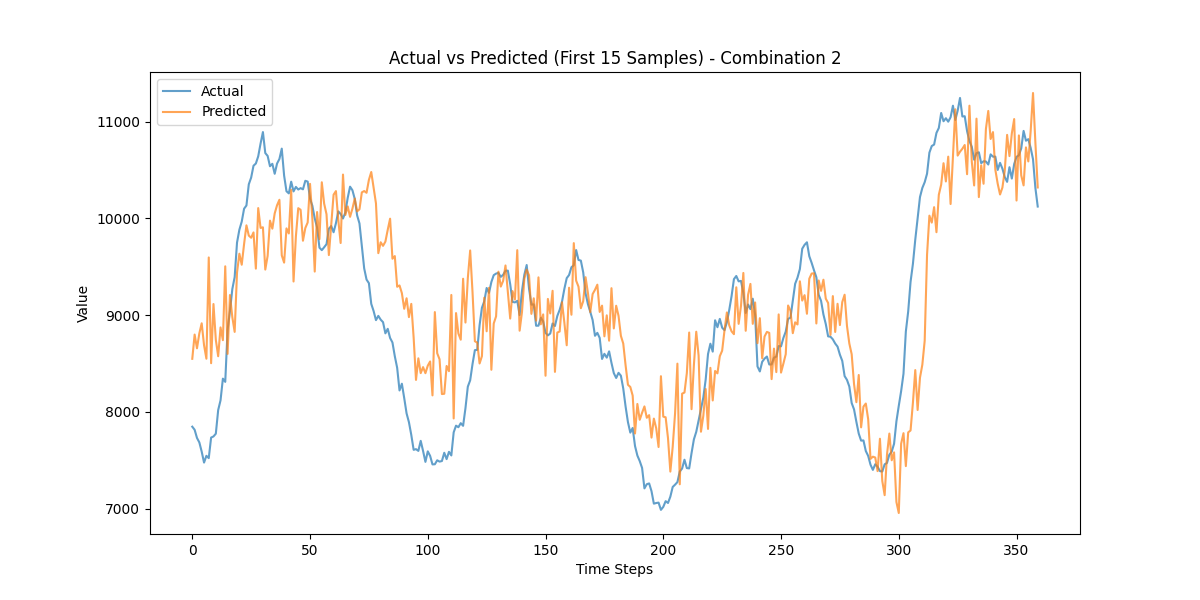
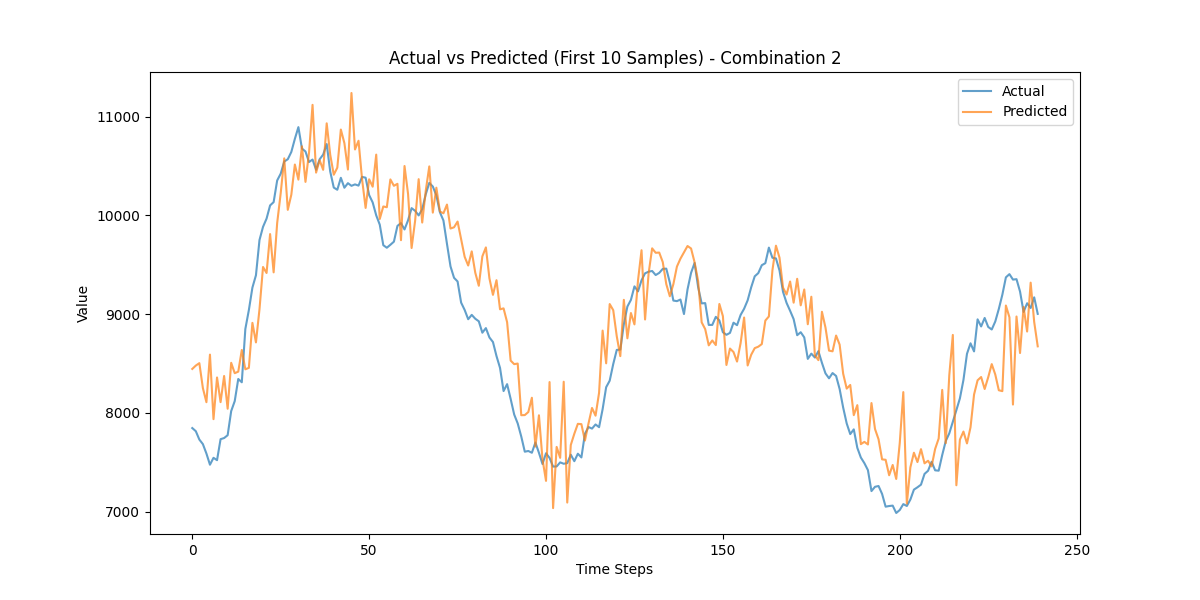
configs and gs code

diff --git a/fgnn/model.py b/fgnn/model.py
@@ -54,7 +54,7 @@ class FGN(nn.Module):
                     self.scale * torch.randn(2, self.frequency_size * self.hidden_size_factor, self.frequency_size)))
                 self.biases.append(nn.Parameter(
                     self.scale * torch.randn(2, self.frequency_size)))
-            else: 
+            else:
                 self.weights.append(nn.Parameter(
                     self.scale * torch.randn(2, self.frequency_size * self.hidden_size_factor,
                                              self.frequency_size * self.hidden_size_factor)))
@@ -150,12 +150,23 @@ class FGN(nn.Module):
         x = x.reshape(B, -1)
 
         # embedding B*NL ==> B*NL*D
-        x = self.tokenEmb(x)
+        x = self.tokenEmb(x)  # [B, N*L, embed_size]
 
-        # FFT B*NL*D ==> B*NT/2*D
+        # [B, N*L, number_frequency, frequency_size]
+        x = x.reshape(B, -1, self.number_frequency, self.frequency_size)
+        x = x.permute(0, 2, 1, 3)  # [B, number_frequency, N*L, frequency_size]
+        # [B*number_frequency, N*L, frequency_size]
+        x = x.reshape(B * self.number_frequency, -1, self.frequency_size)
+
+        # [B*number_frequency, (N*L)//2 + 1, frequency_size]
         x = torch.fft.rfft(x, dim=1, norm=self.fft_norm)
 
-        x = x.reshape(B, (N*L)//2 + 1, self.frequency_size)
+        # [B, number_frequency, (N*L)//2 + 1, frequency_size]
+        x = x.reshape(B, self.number_frequency, -1, self.frequency_size)
+        # [B, (N*L)//2 + 1, number_frequency, frequency_size]
+        x = x.permute(0, 2, 1, 3)
+        # [B, (N*L)//2 + 1, frequency_size]
+        x = x.reshape(B, -1, self.frequency_size)
 
         bias = x
 

diff --git a/utils/grid_search.py b/utils/grid_search.py
@@ -94,7 +94,7 @@ def grid_search(
             test_loader=test_loader, train_norm=train_norm)
 
         plot_test_samples(
-            n_samples=15,
+            n_samples=10,
             predicted_samples=test_results['predictions'],
             target_samples=test_results['targets'],
             i=i,
@@ -120,11 +120,18 @@ def grid_search(
             best_test_metrics = metrics
             best_model_state = trainer.best_model_state
             best_idx = i
+            logger.info("")
+            logger.info(
+                f"New best model found at combination {i+1}/{len(param_combs)}")
+            logger.info(f"Best val loss so far: {best_val_loss:.6f}")
+            logger.info(
+                f"Best metrics so far: RMSE={best_test_metrics['rmse']:.4f}, MAE={best_test_metrics['mae']:.4f}, MAPE={best_test_metrics['mape']:.4f}, SMAPE={best_test_metrics['smape']:.4f}")
+            logger.info("")
 
         logger.info(
             f"Completed combination {i+1} - Val Loss: {result['val_loss']:.6f}, Test Loss: {result['test_loss']:.6f}")
         logger.info(
-            f"Metrics: RMSE={metrics['rmse']:.4f}, MAE={metrics['mae']:.4f}, MAPE={metrics['mape']:.4f}")
+            f"Metrics: RMSE={metrics['rmse']:.4f}, MAE={metrics['mae']:.4f}, MAPE={metrics['mape']:.4f}, SMAPE={metrics['smape']:.4f}")
 
         if torch.cuda.is_available():
             torch.cuda.empty_cache()
